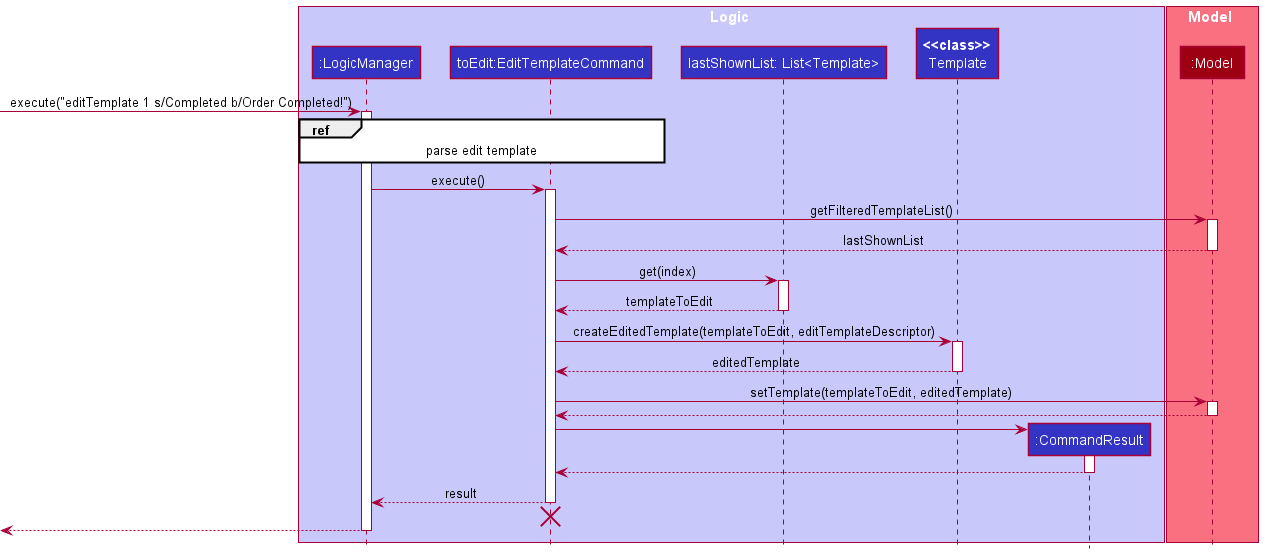
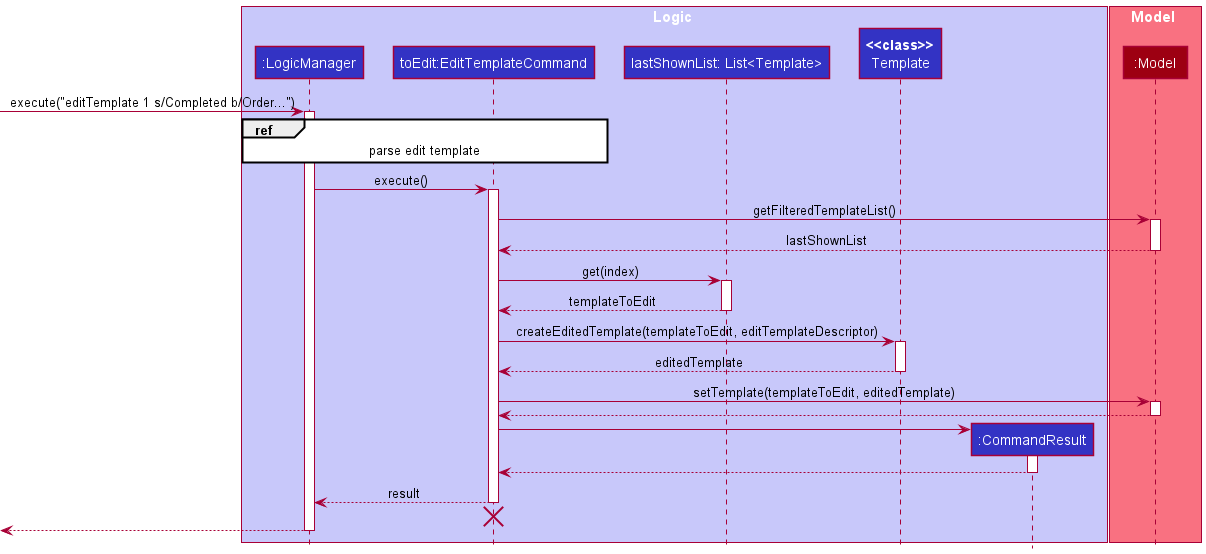
Update DG for Template and Add test case for Storage invalid objects.

diff --git a/src/test/java/seedu/mycrm/storage/JsonSerializableMyCrmTest.java b/src/test/java/seedu/mycrm/storage/JsonSerializableMyCrmTest.java
@@ -18,6 +18,9 @@ public class JsonSerializableMyCrmTest {
     private static final Path TEST_DATA_FOLDER = Paths.get("src", "test", "data", "JsonSerializableMyCrmTest");
     private static final Path TYPICAL_CONTACTS_FILE = TEST_DATA_FOLDER.resolve("typicalContactsMyCrm.json");
     private static final Path INVALID_CONTACTS_FILE = TEST_DATA_FOLDER.resolve("invalidContactMyCrm.json");
+    private static final Path INVALID_PRODUCTS_FILE = TEST_DATA_FOLDER.resolve("invalidProductMyCrm.json");
+    private static final Path INVALID_TEMPLATES_FILE = TEST_DATA_FOLDER.resolve("invalidTemplateMyCrm.json");
+    private static final Path INVALID_JOBS_FILE = TEST_DATA_FOLDER.resolve("invalidJobMyCrm.json");
     private static final Path DUPLICATE_CONTACT_FILE = TEST_DATA_FOLDER.resolve("duplicateContactMyCrm.json");
     private static final Path DUPLICATE_TEMPLATE_FILE = TEST_DATA_FOLDER.resolve("duplicateTemplateMyCrm.json");
     private static final Path DUPLICATE_PRODUCT_FILE = TEST_DATA_FOLDER.resolve("duplicateProductMyCrm.json");
@@ -39,6 +42,26 @@ public class JsonSerializableMyCrmTest {
         assertThrows(IllegalValueException.class, dataFromFile::toModelType);
     }
 
+    @Test
+    public void toModelType_invalidProductFile_throwsIllegalValueException() throws Exception {
+        JsonSerializableMyCrm dataFromFile = JsonUtil.readJsonFile(INVALID_PRODUCTS_FILE,
+                JsonSerializableMyCrm.class).get();
+        assertThrows(IllegalValueException.class, dataFromFile::toModelType);
+    }
+
+    @Test
+    public void toModelType_invalidTemplateFile_throwsIllegalValueException() throws Exception {
+        JsonSerializableMyCrm dataFromFile = JsonUtil.readJsonFile(INVALID_TEMPLATES_FILE,
+                JsonSerializableMyCrm.class).get();
+        assertThrows(IllegalValueException.class, dataFromFile::toModelType);
+    }
+
+    @Test
+    public void toModelType_invalidJobFile_throwsIllegalValueException() throws Exception {
+        JsonSerializableMyCrm dataFromFile = JsonUtil.readJsonFile(INVALID_JOBS_FILE,
+                JsonSerializableMyCrm.class).get();
+        assertThrows(IllegalValueException.class, dataFromFile::toModelType);
+    }
     @Test
     public void toModelType_duplicateContacts_throwsIllegalValueException() throws Exception {
         JsonSerializableMyCrm dataFromFile = JsonUtil.readJsonFile(DUPLICATE_CONTACT_FILE,

diff --git a/src/test/java/seedu/mycrm/storage/JsonMyCrmStorageTest.java b/src/test/java/seedu/mycrm/storage/JsonMyCrmStorageTest.java
@@ -56,8 +56,38 @@ public class JsonMyCrmStorageTest {
     }
 
     @Test
+    public void readMyCrm_invalidProductMyCrm_throwDataConversionException() {
+        assertThrows(DataConversionException.class, () -> readMyCrm("invalidProductMyCrm.json"));
+    }
+
+    @Test
+    public void readMyCrm_invalidTemplateMyCrm_throwDataConversionException() {
+        assertThrows(DataConversionException.class, () -> readMyCrm("invalidTemplateMyCrm.json"));
+    }
+
+    @Test
+    public void readMyCrm_invalidJobMyCrm_throwDataConversionException() {
+        assertThrows(DataConversionException.class, () -> readMyCrm("invalidJobMyCrm.json"));
+    }
+
+    @Test
     public void readMyCrm_invalidAndValidContactMyCrm_throwDataConversionException() {
         assertThrows(DataConversionException.class, () -> readMyCrm("invalidAndValidContactMyCrm.json"));
+    }
+
+    @Test
+    public void readMyCrm_invalidAndValidProductMyCrm_throwDataConversionException() {
+        assertThrows(DataConversionException.class, () -> readMyCrm("invalidAndValidProductMyCrm.json"));
+    }
+
+    @Test
+    public void readMyCrm_invalidAndValidTemplateMyCrm_throwDataConversionException() {
+        assertThrows(DataConversionException.class, () -> readMyCrm("invalidAndValidTemplateMyCrm.json"));
+    }
+
+    @Test
+    public void readMyCrm_invalidAndValidJobMyCrm_throwDataConversionException() {
+        assertThrows(DataConversionException.class, () -> readMyCrm("invalidAndValidJobMyCrm.json"));
     }
 
     @Test

diff --git a/docs/DeveloperGuide.md b/docs/DeveloperGuide.md
@@ -24,12 +24,18 @@ Refer to the guide [_Setting up and getting started_](SettingUp.md).
 
 <div markdown="span" class="alert alert-primary">
 
-:bulb: **Tip:** The `.puml` files used to create diagrams in this document can be found in the [diagrams](https://github.com/se-edu/addressbook-level3/tree/master/docs/diagrams/) folder. Refer to the [_PlantUML Tutorial_ at se-edu/guides](https://se-education.org/guides/tutorials/plantUml.html) to learn how to create and edit diagrams.
+:bulb: **Tip 1:** The `.puml` files used to create diagrams in this document can be found in the [diagrams](https://github.com/se-edu/addressbook-level3/tree/master/docs/diagrams/) folder. Refer to the [_PlantUML Tutorial_ at se-edu/guides](https://se-education.org/guides/tutorials/plantUml.html) to learn how to create and edit diagrams.
+
+:bulb: **Tip 2:** Each of the following sequence and activity diagram can be enlarged by CLICKING on the respective 
+images!
+
 </div>
 
 ### Architecture
 
+<a href="https://ay2122s1-cs2103-t14-3.github.io/tp/images/ArchitectureDiagram.png">
 <img src="images/ArchitectureDiagram.png" width="280" />
+</a>
 
 The ***Architecture Diagram*** given above explains the high-level design of the App.
 
@@ -55,7 +61,9 @@ The rest of the App consists of four components.
 
 The *Sequence Diagram* below shows how the components interact with each other for the scenario where the user issues the command `delete 1`.
 
+<a href="https://ay2122s1-cs2103-t14-3.github.io/tp/images/ArchitectureSequenceDiagram.png">
 <img src="images/ArchitectureSequenceDiagram.png" width="574" />
+</a>
 
 Each of the four main components (also shown in the diagram above),
 
@@ -64,7 +72,9 @@ Each of the four main components (also shown in the diagram above),
 
 For example, the `Logic` component defines its API in the `Logic.java` interface and implements its functionality using the `LogicManager.java` class which follows the `Logic` interface. Other components interact with a given component through its interface rather than the concrete class (reason: to prevent outside component's being coupled to the implementation of a component), as illustrated in the (partial) class diagram below.
 
+<a href="https://ay2122s1-cs2103-t14-3.github.io/tp/images/ComponentManagers.png">
 <img src="images/ComponentManagers.png" width="300" />
+</a>
 
 The sections below give more details of each component.
 
@@ -97,7 +107,9 @@ The `UI` component,
 
 Here's a (partial) class diagram of the `Logic` component:
 
+<a href="https://ay2122s1-cs2103-t14-3.github.io/tp/images/LogicClassDiagram.png">
 <img src="images/LogicClassDiagram.png" width="550"/>
+</a>
 
 How the `Logic` component works:
 1. When `Logic` is called upon to execute a command, it uses the `AddressBookParser` class to parse the user command.
@@ -107,14 +119,16 @@ How the `Logic` component works:
 
 The Sequence Diagram below illustrates the interactions within the `Logic` component for the `execute("delete 1")` API call.
 
-![Interactions Inside the Logic Component for the `delete 1` Command](images/DeleteSequenceDiagram.png)
+[![Interactions Inside the Logic Component for the `delete 1` Command](images/DeleteSequenceDiagram.png)](https://ay2122s1-cs2103-t14-3.github.io/tp/images/DeleteSequenceDiagram.png)
 
 <div markdown="span" class="alert alert-info">:information_source: **Note:** The lifeline for `DeleteCommandParser` should end at the destroy marker (X) but due to a limitation of PlantUML, the lifeline reaches the end of diagram.
 </div>
 
 Here are the other classes in `Logic` (omitted from the class diagram above) that are used for parsing a user command:
 
+<a href="https://ay2122s1-cs2103-t14-3.github.io/tp/images/ParserClasses.png">
 <img src="images/ParserClasses.png" width="600"/>
+</a>
 
 How the parsing works:
 * When called upon to parse a user command, the `AddressBookParser` class creates an `XYZCommandParser` (`XYZ` is a placeholder for the specific command name e.g., `AddCommandParser`) which uses the other classes shown above to parse the user command and create a `XYZCommand` object (e.g., `AddCommand`) which the `AddressBookParser` returns back as a `Command` object.
@@ -123,8 +137,9 @@ How the parsing works:
 ### Model component
 **API** : [`Model.java`](https://github.com/se-edu/addressbook-level3/tree/master/src/main/java/seedu/address/model/Model.java)
 
+<a href="https://ay2122s1-cs2103-t14-3.github.io/tp/images/ModelClassDiagram.png">
 <img src="images/ModelClassDiagram.png" width="450" />
-
+</a>
 
 The `Model` component,
 
@@ -135,7 +150,9 @@ The `Model` component,
 
 <div markdown="span" class="alert alert-info">:information_source: **Note:** An alternative (arguably, a more OOP) model is given below. It has a `Tag` list in the `AddressBook`, which `Person` references. This allows `AddressBook` to only require one `Tag` object per unique tag, instead of each `Person` needing their own `Tag` objects.<br>
 
+<a href="https://ay2122s1-cs2103-t14-3.github.io/tp/images/BetterModelClassDiagram.png">
 <img src="images/BetterModelClassDiagram.png" width="450" />
+</a>
 
 </div>
 
@@ -144,7 +161,9 @@ The `Model` component,
 
 **API** : [`Storage.java`](https://github.com/se-edu/addressbook-level3/tree/master/src/main/java/seedu/address/storage/Storage.java)
 
+<a href="https://ay2122s1-cs2103-t14-3.github.io/tp/images/StorageClassDiagram.png">
 <img src="images/StorageClassDiagram.png" width="550" />
+</a>
 
 The `Storage` component,
 * can save both address book data and user preference data in json format, and read them back into corresponding objects.
@@ -367,29 +386,26 @@ If not, by default `listContact` will only show not hidden contacts in contact l
 
 #### Implementation
 
-The Adding a Template mechanism is facilitated by `MyCRM`. This template created is stored internally using
+The **Adding a Template** mechanism is facilitated by `MyCRM`. This template created is stored internally using
 `UniqueTemplateList` inside the `MyCRM` object. 
 
 #### Usage
 
 The activity diagram below illustrates how the events of `addTemplate` command behave when executed by user:
 
-![](images/mail/AddTemplateActivityDiagram.png)
+[![](images/mail/AddTemplateActivityDiagram.png)](https://ay2122s1-cs2103-t14-3.github.io/tp/images/mail/AddTemplateActivityDiagram.png)
 
 Given below is an example usage scenario and how the Adding a Template mechanism behaves at each step.
 
-![](images/mail/AddTemplateParseSequenceDiagram.png)
+[![](images/mail/AddTemplateParseSequenceDiagram.png)](https://ay2122s1-cs2103-t14-3.github.io/tp/images/mail/AddTemplateParseSequenceDiagram.png)
 
-<div markdown="span" class="alert alert-info">:information_source: **Note:** The lifeline for 
-`AddTemplateCommandParser` should end at the destroy marker (X) but due to a limitation of PlantUML, the lifeline 
-reaches the end of diagram.
-</div>
+**Parse user input**
 
 Within `AddTemplateCommandParser#parse`, `ParserUtil#parseSubject` will be called to create a subject using 
 "Completed", `ParserUtil#parseBody` to create a body using "Dear customer..." and create a template using the new
 subject and body.
 
-![](images/mail/AddTemplateSequenceDiagram.png)
+[![](images/mail/AddTemplateSequenceDiagram.png)](https://ay2122s1-cs2103-t14-3.github.io/tp/images/mail/AddTemplateSequenceDiagram.png)
 
 Additionally, before adding the new template into `Model`, `Template t` will be checked if a similar copy exist
 within `Model`. The conditions required is:
@@ -413,18 +429,20 @@ within `Model`. The conditions required is:
 
 #### Implementation
 
-The Editing a Template mechanism is facilitated by `MyCRM`. This mechanism reads and modifies a target template 
+The **Editing a Template** mechanism is facilitated by `MyCRM`. This mechanism reads and modifies a target template 
 object from `UniqueTemplateList` inside the `MyCRM` object.
 
 #### Usage
 
 The activity diagram below illustrates how the events of `editTemplate` command behave when executed by user:
 
-![](images/mail/EditTemplateActivityDiagram.png)
+[![](images/mail/EditTemplateActivityDiagram.png)](https://ay2122s1-cs2103-t14-3.github.io/tp/images/mail/EditTemplateActivityDiagram.png)
 
 Given below is an example usage scenario and how the Editing a Template mechanism behaves at each step.
 
-![](images/mail/EditTemplateParseSequenceDiagram.png)
+[![](images/mail/EditTemplateParseSequenceDiagram.png)](https://ay2122s1-cs2103-t14-3.github.io/tp/images/mail/EditTemplateParseSequenceDiagram.png)
+
+**Parse user input**
 
 Within `EditTemplateCommandParser#parse`,
 - `Index` must be is valid (within the range of templates).
@@ -434,48 +452,52 @@ Within `EditTemplateCommandParser#parse`,
 `ArgumentMultimap#getValue` to extract both `Subject` and `Body`: "Completed" and "Order Completed!" from the 
 command string respectively.
 
-![](images/mail/EditTemplateSequenceDiagram.png)
+[![](images/mail/EditTemplateSequenceDiagram.png)](https://ay2122s1-cs2103-t14-3.github.io/tp/images/mail/EditTemplateSequenceDiagram.png)
 
 ### Deleting a Template
 
 #### Implementation
 
-The Deleting a Template mechanism is facilitated by `MyCRM`. This template removes a target template object from
+The **Deleting a Template** mechanism is facilitated by `MyCRM`. This template removes a target template object from
 `UniqueTemplateList` inside the `MyCRM` object.
 
 #### Usage
 
 The activity diagram below illustrates how the events of `deleteTemplate` command behave when executed by user:
 
-![](images/mail/DeleteTemplateActivityDiagram.png)
+[![](images/mail/DeleteTemplateActivityDiagram.png)](https://ay2122s1-cs2103-t14-3.github.io/tp/images/mail/DeleteTemplateActivityDiagram.png)
 
 Given below is an example usage scenario and how the Deleting a Template mechanism behaves at each step.
 
-![](images/mail/DeleteTemplateParseSequenceDiagram.png)
+[![](images/mail/DeleteTemplateParseSequenceDiagram.png)](https://ay2122s1-cs2103-t14-3.github.io/tp/images/mail/DeleteTemplateParseSequenceDiagram.png)
+
+**Parse user input**
 
 Within `DeleteTemplateCommandParser#parse`,
 - `Index` must be is valid (within the range of templates) and at least one field to be edited, for the mechanism to
   execute successfully.
 - `ParserUtil#parseIndex` will be called to extract the index of the specified template to delete.
 
-![](images/mail/DeleteTemplateSequenceDiagram.png)
+[![](images/mail/DeleteTemplateSequenceDiagram.png)](https://ay2122s1-cs2103-t14-3.github.io/tp/images/mail/DeleteTemplateSequenceDiagram.png)
 
 ### Finding a Template
 
 #### Implementation
 
-The Finding a Template mechanism is facilitated by `MyCRM`. This mechanism finds specific list of template object 
+The **Finding a Template** mechanism is facilitated by `MyCRM`. This mechanism finds specific list of template object 
 from `UniqueTemplateList` inside the `MyCRM` object with certain keywords provided.
 
 #### Usage
 
 The activity diagram below illustrates how the events of `findTemplate` command behave when executed by a user:
 
-![](images/mail/FindTemplateActivityDiagram.png)
+[![](images/mail/FindTemplateActivityDiagram.png)](https://ay2122s1-cs2103-t14-3.github.io/tp/images/mail/FindTemplateActivityDiagram.png)
 
 Given below is an example usage scenario and how the Finding a Template mechanism behaves at each step.
 
-![](images/mail/FindTemplateParseSequenceDiagram.png)
+[![](images/mail/FindTemplateParseSequenceDiagram.png)](https://ay2122s1-cs2103-t14-3.github.io/tp/images/mail/FindTemplateParseSequenceDiagram.png)
+
+**Parse user input**
 
 Within `FindTemplateCommandParser#parse`,
 -  At least one keyword must be presented.
@@ -484,42 +506,58 @@ Within `FindTemplateCommandParser#parse`,
 `FindTemplateCommandParser#parse` will call `String#trim` and `String#split` to get list of keywords
 in order for MyCRM to find corresponding templates with these keywords as predicate.
 
-![](images/mail/FindTemplateSequenceDiagram.png)
+[![](images/mail/FindTemplateSequenceDiagram.png)](https://ay2122s1-cs2103-t14-3.github.io/tp/images/mail/FindTemplateSequenceDiagram.png)
 
 ### Constructing an Email
 
 #### Implementation
 
-The Constructing an Email mechanism is facilitated by `MyCRM`. This email is constructed based of the information 
-from a specified job and template from `UniqueJobList` and `UniqueTemplateList` inside the `MyCRM` object. A mailto URL 
-will be generated, sending users to their default mailing application with details of the job and template. 
+The **Constructing an Email** mechanism is facilitated by `MyCRM`. This email is constructed based of the information 
+from <u>a specified job and template</u> from `UniqueJobList` and `UniqueTemplateList` inside the `MyCRM` object. <u>A
+mailto URL</u> will be generated, sending users to their default mailing application with details of the job and 
+template.
 
 #### Usage
 
 The activity diagram below illustrates how the events of `mail` command behave when executed by user:
 
-![](images/mail/MailActivityDiagram.png)
+[![](images/mail/MailActivityDiagram.png)](https://ay2122s1-cs2103-t14-3.github.io/tp/images/mail/MailActivityDiagram.png)
 
 Given below is an example usage scenario and how the Constructing an Email mechanism behaves at each step.
 
-![](images/mail/MailParseSequenceDiagram.png)
+[![](images/mail/MailParseSequenceDiagram.png)](https://ay2122s1-cs2103-t14-3.github.io/tp/images/mail/MailParseSequenceDiagram.png)
+
+**Parse user input**
 
 Within `MailCommandParser#parse`,
 - `JobIndex` must be is valid (within the range of job).
 - `TemplateIndex` must be is valid (within the range of templates).
 - `ParserUtil#parseIndex` will be called to extract both the index of the specified job and template to mail.
 
-![](images/mail/MailSequenceDiagram.png)
+[![](images/mail/MailSequenceDiagram.png)](https://ay2122s1-cs2103-t14-3.github.io/tp/images/mail/MailSequenceDiagram.png)
 
 An additional feature of constructing an email is the generation of a mailto URL, allowing for users to transfer 
 their job and template details to the user's default mailing application.
 
-Given below is an example of the generation of a mailto URL:
+Given below is an example of the **generation of a mailto URL**:
 
-![](images/mail/MailUrlSequenceDiagram.png)
+[![](images/mail/MailUrlSequenceDiagram.png)](https://ay2122s1-cs2103-t14-3.github.io/tp/images/mail/MailUrlSequenceDiagram.png)
 
-After the URL is generated, the URL string is passed to a JavaFX `Hyperlink` object that when clicked, will execute 
-the URL path.
+After the URL is generated, the URL string is passed to a JavaFX <u>Hyperlink</u> object that when clicked, will 
+execute the URL path.
+
+#### Design Considerations
+
+**Aspect: Mailing Extension**
+
+* Current choice: mailto URL
+    * Pros: Easy to implement, is not limited to any specific email application, does not require user's email account. 
+    * Cons: Does not allow for direct (immediate) sending of mail to client email addresses.
+* Alternative: Embedding Oauth with email service
+    * Pros: Enables direct and quick sending of email directly from MyCRM application
+    * Cons: Higher complexity in implementation with JavaFX, requires internet access to save drafts of emails, 
+      requires the storage and security assurance of user sensitive data (email account information), and limited 
+      management number of email accounts i.e. swapping different email services like Gmail and Outlook
 
 ### Adding a Product
 
@@ -1081,7 +1119,7 @@ Priorities: High (must have) - `* * *`, Medium (nice to have) - `* *`, Low (unli
 
       Use case resumes at step 2.
     
-**Use case: UC18 - Finding am email template**
+**Use case: UC18 - Finding an email template**
 
 **MSS**
 
@@ -1274,7 +1312,6 @@ Priorities: High (must have) - `* * *`, Medium (nice to have) - `* *`, Low (unli
 7. Should work on both 32-bit and 64-bit environments.
 8. A user with above average typing speed for regular English text (i.e. not code, not system admin commands)
    should be able to accomplish most of the tasks faster using commands than using the mouse.
-
 
 ### Glossary
 

diff --git a/docs/UserGuide.md b/docs/UserGuide.md
@@ -609,7 +609,7 @@ Format: Click on "Print" / `exportReport`
   <img src="images/ui-printer.png" width="300px">
   (for Windows OS)
   <br><br>
-  <img src="images/ui-printer-for-macos.png" width="300px">
+  <img src="images/ui-printer-macos.png" width="300px">
   (for Mac OS)
 
 --------------------------------------------------------------------------------------------------------------------
